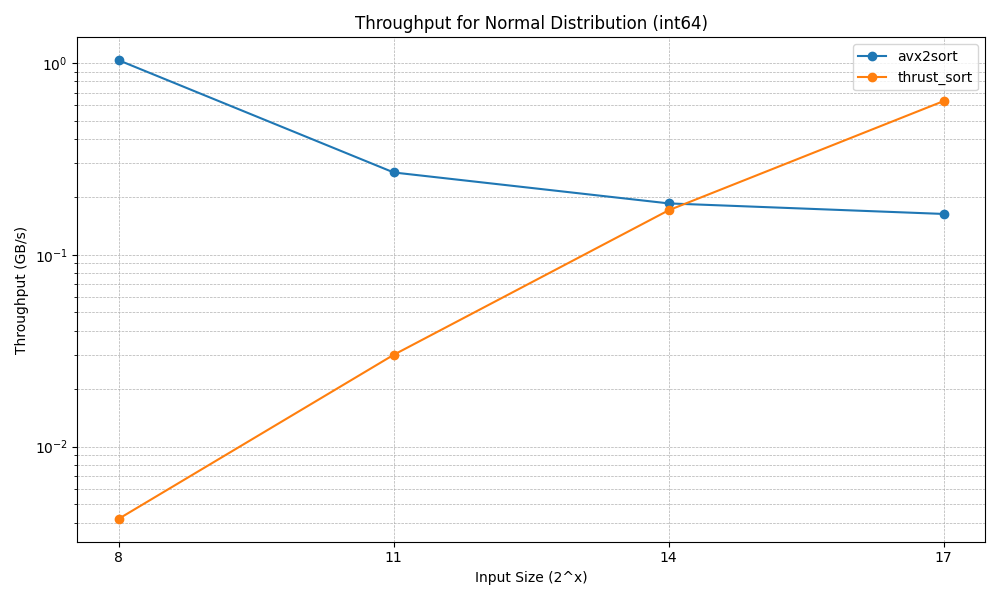
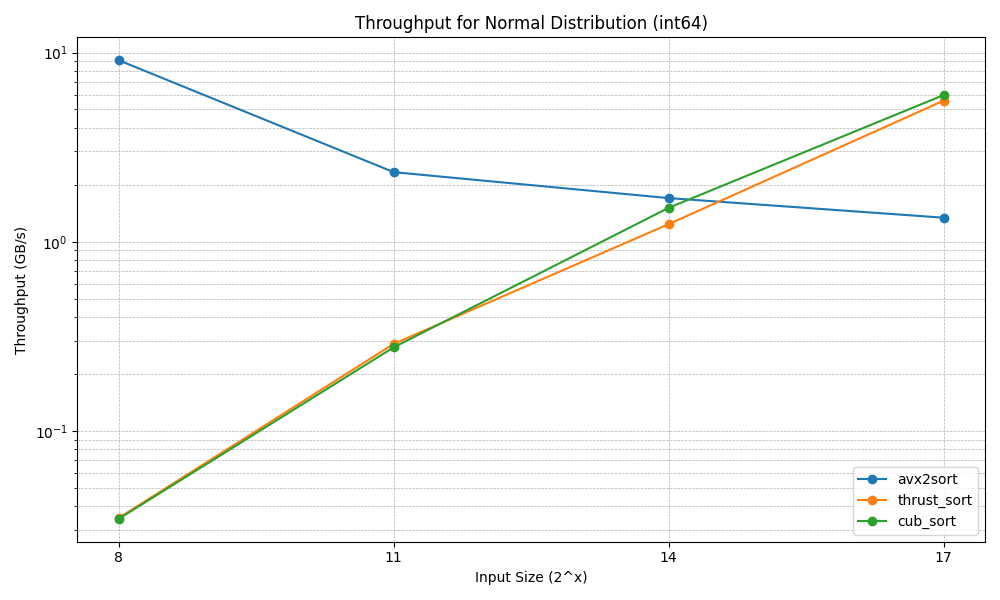
add cub algorithm

diff --git a/plot_benchmark.py b/plot_benchmark.py
@@ -5,7 +5,7 @@ import numpy as np
 
 def calculate_throughput(size, time_seconds, element_size_bytes):
     data_size_bytes = size * element_size_bytes
-    data_size_gb = data_size_bytes / (1024 ** 3)  # GB
+    data_size_gb = data_size_bytes *8 / (10 ** 9)  # GB
     throughput_gbps = data_size_gb / time_seconds  # GB/s
     return throughput_gbps
 
@@ -13,7 +13,7 @@ sizes = [2**8, 2**11, 2**14, 2**17]
 element_sizes = {'int32': 4, 'int64': 8}
 distributions = ['Uniform', 'Normal', 'Zipf']
 
-algorithms = ['avx2sort', 'thrust_sort']  # may need to change
+algorithms = ['avx2sort', 'thrust_sort', 'cub_sort']  # may need to change
 
 x_labels = [f'{int(np.log2(size))}' for size in sizes]
 x_ticks = [8, 11, 14, 17]
